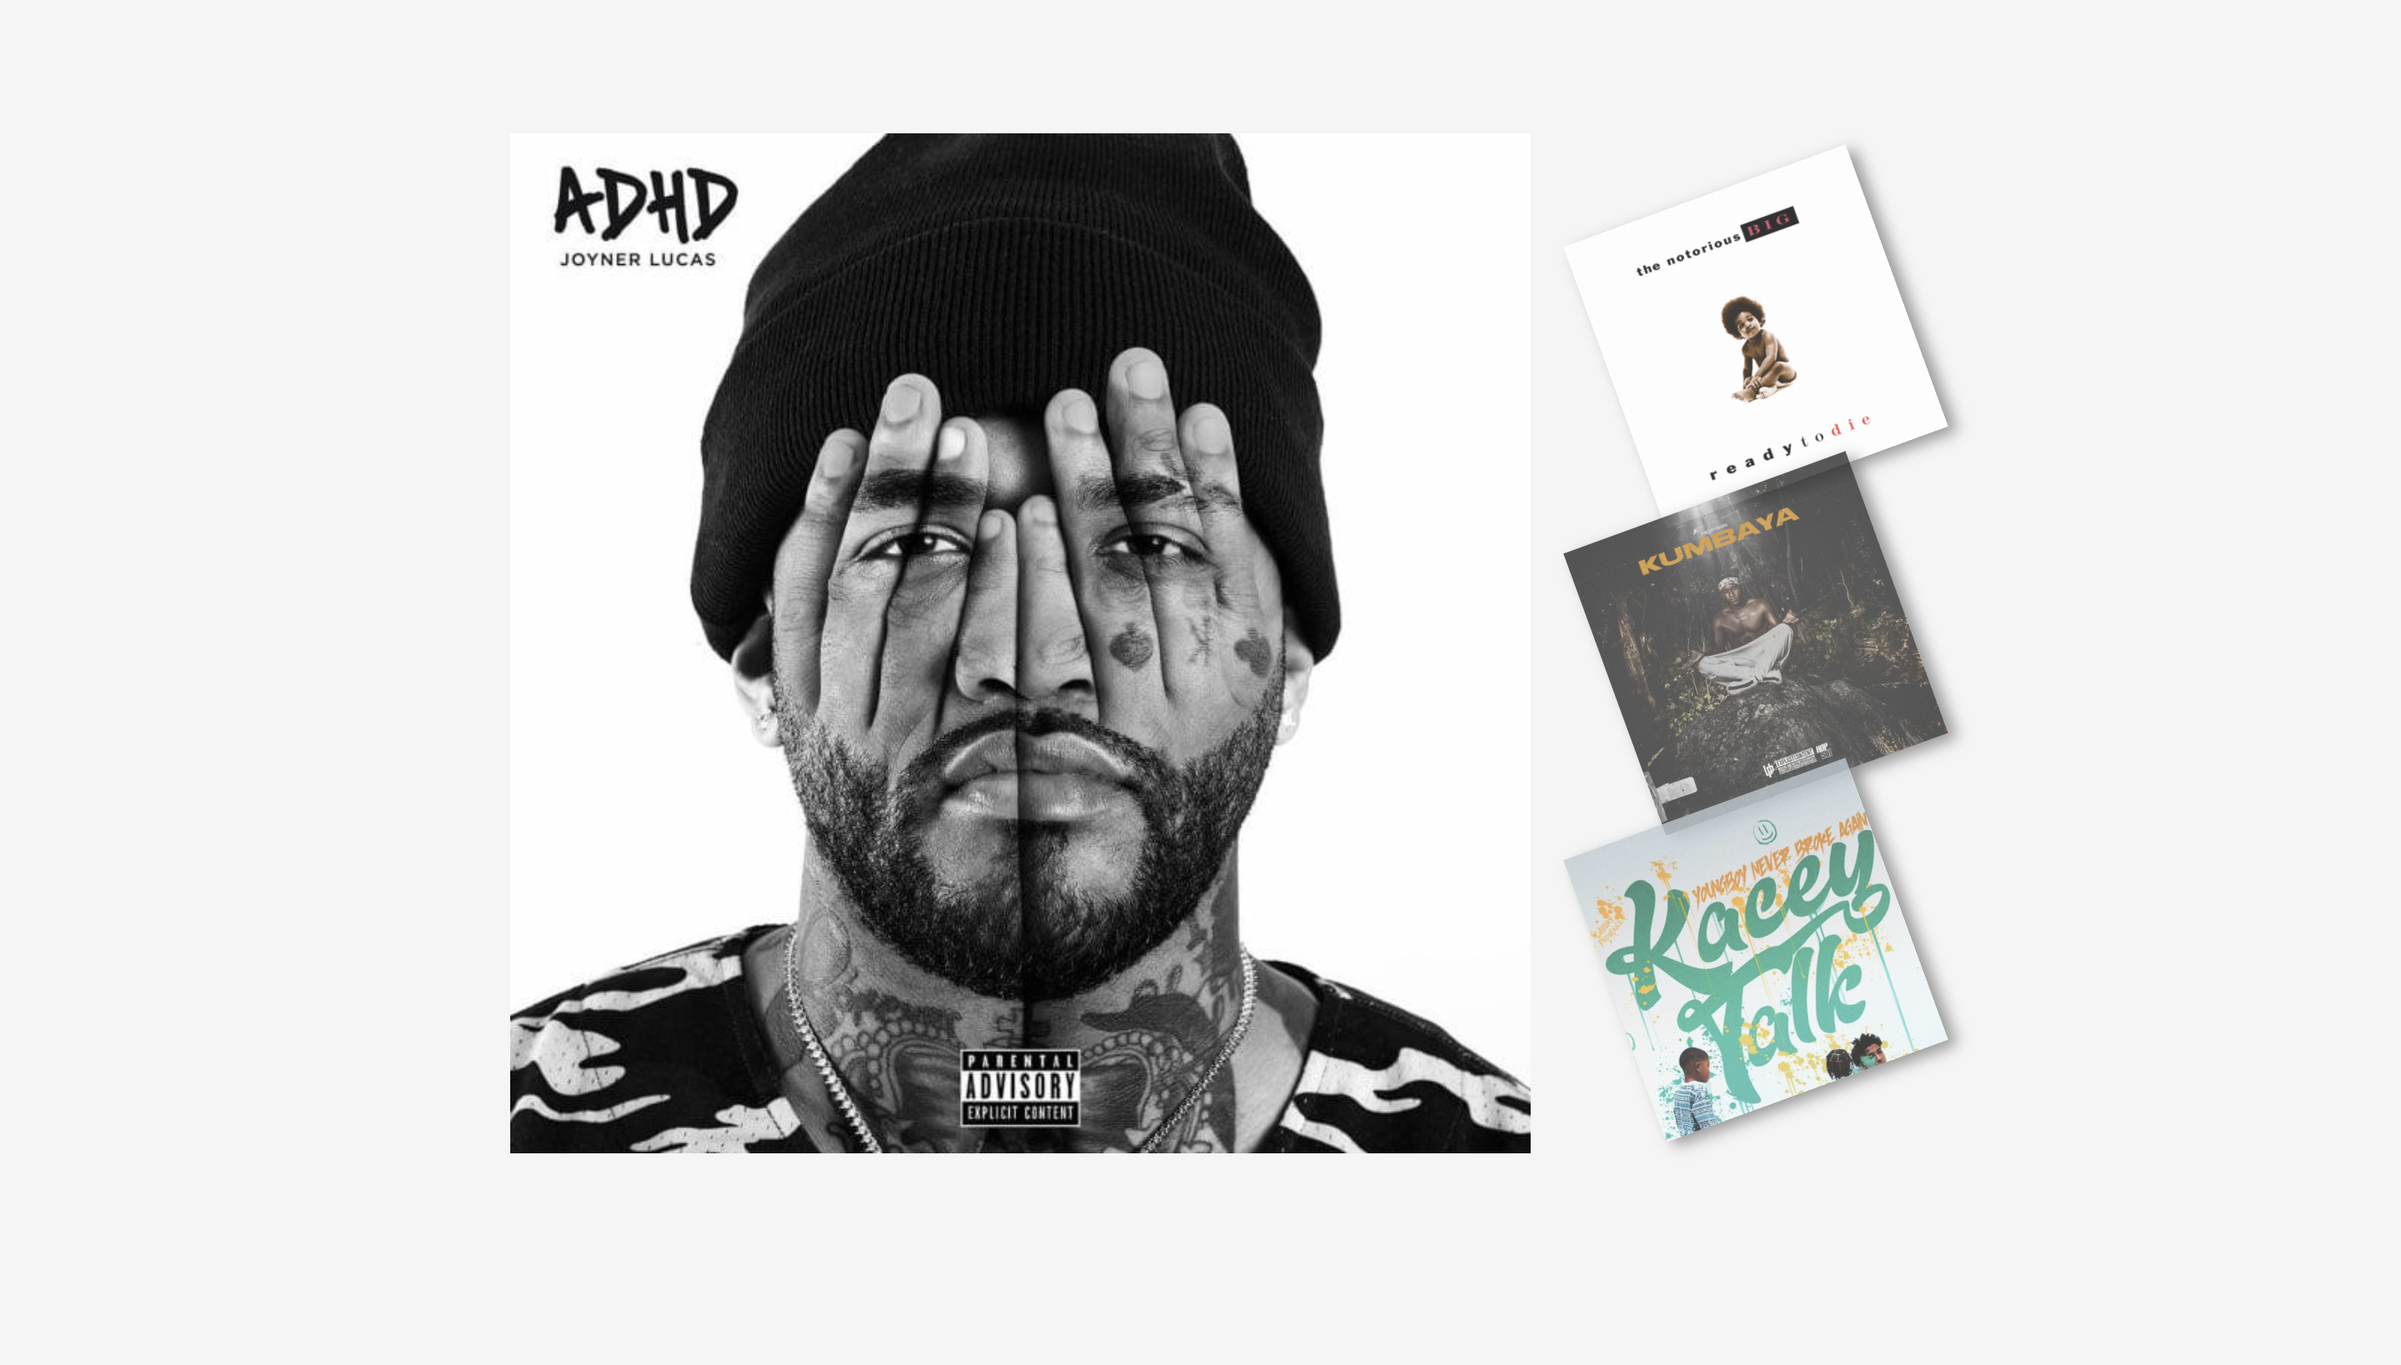
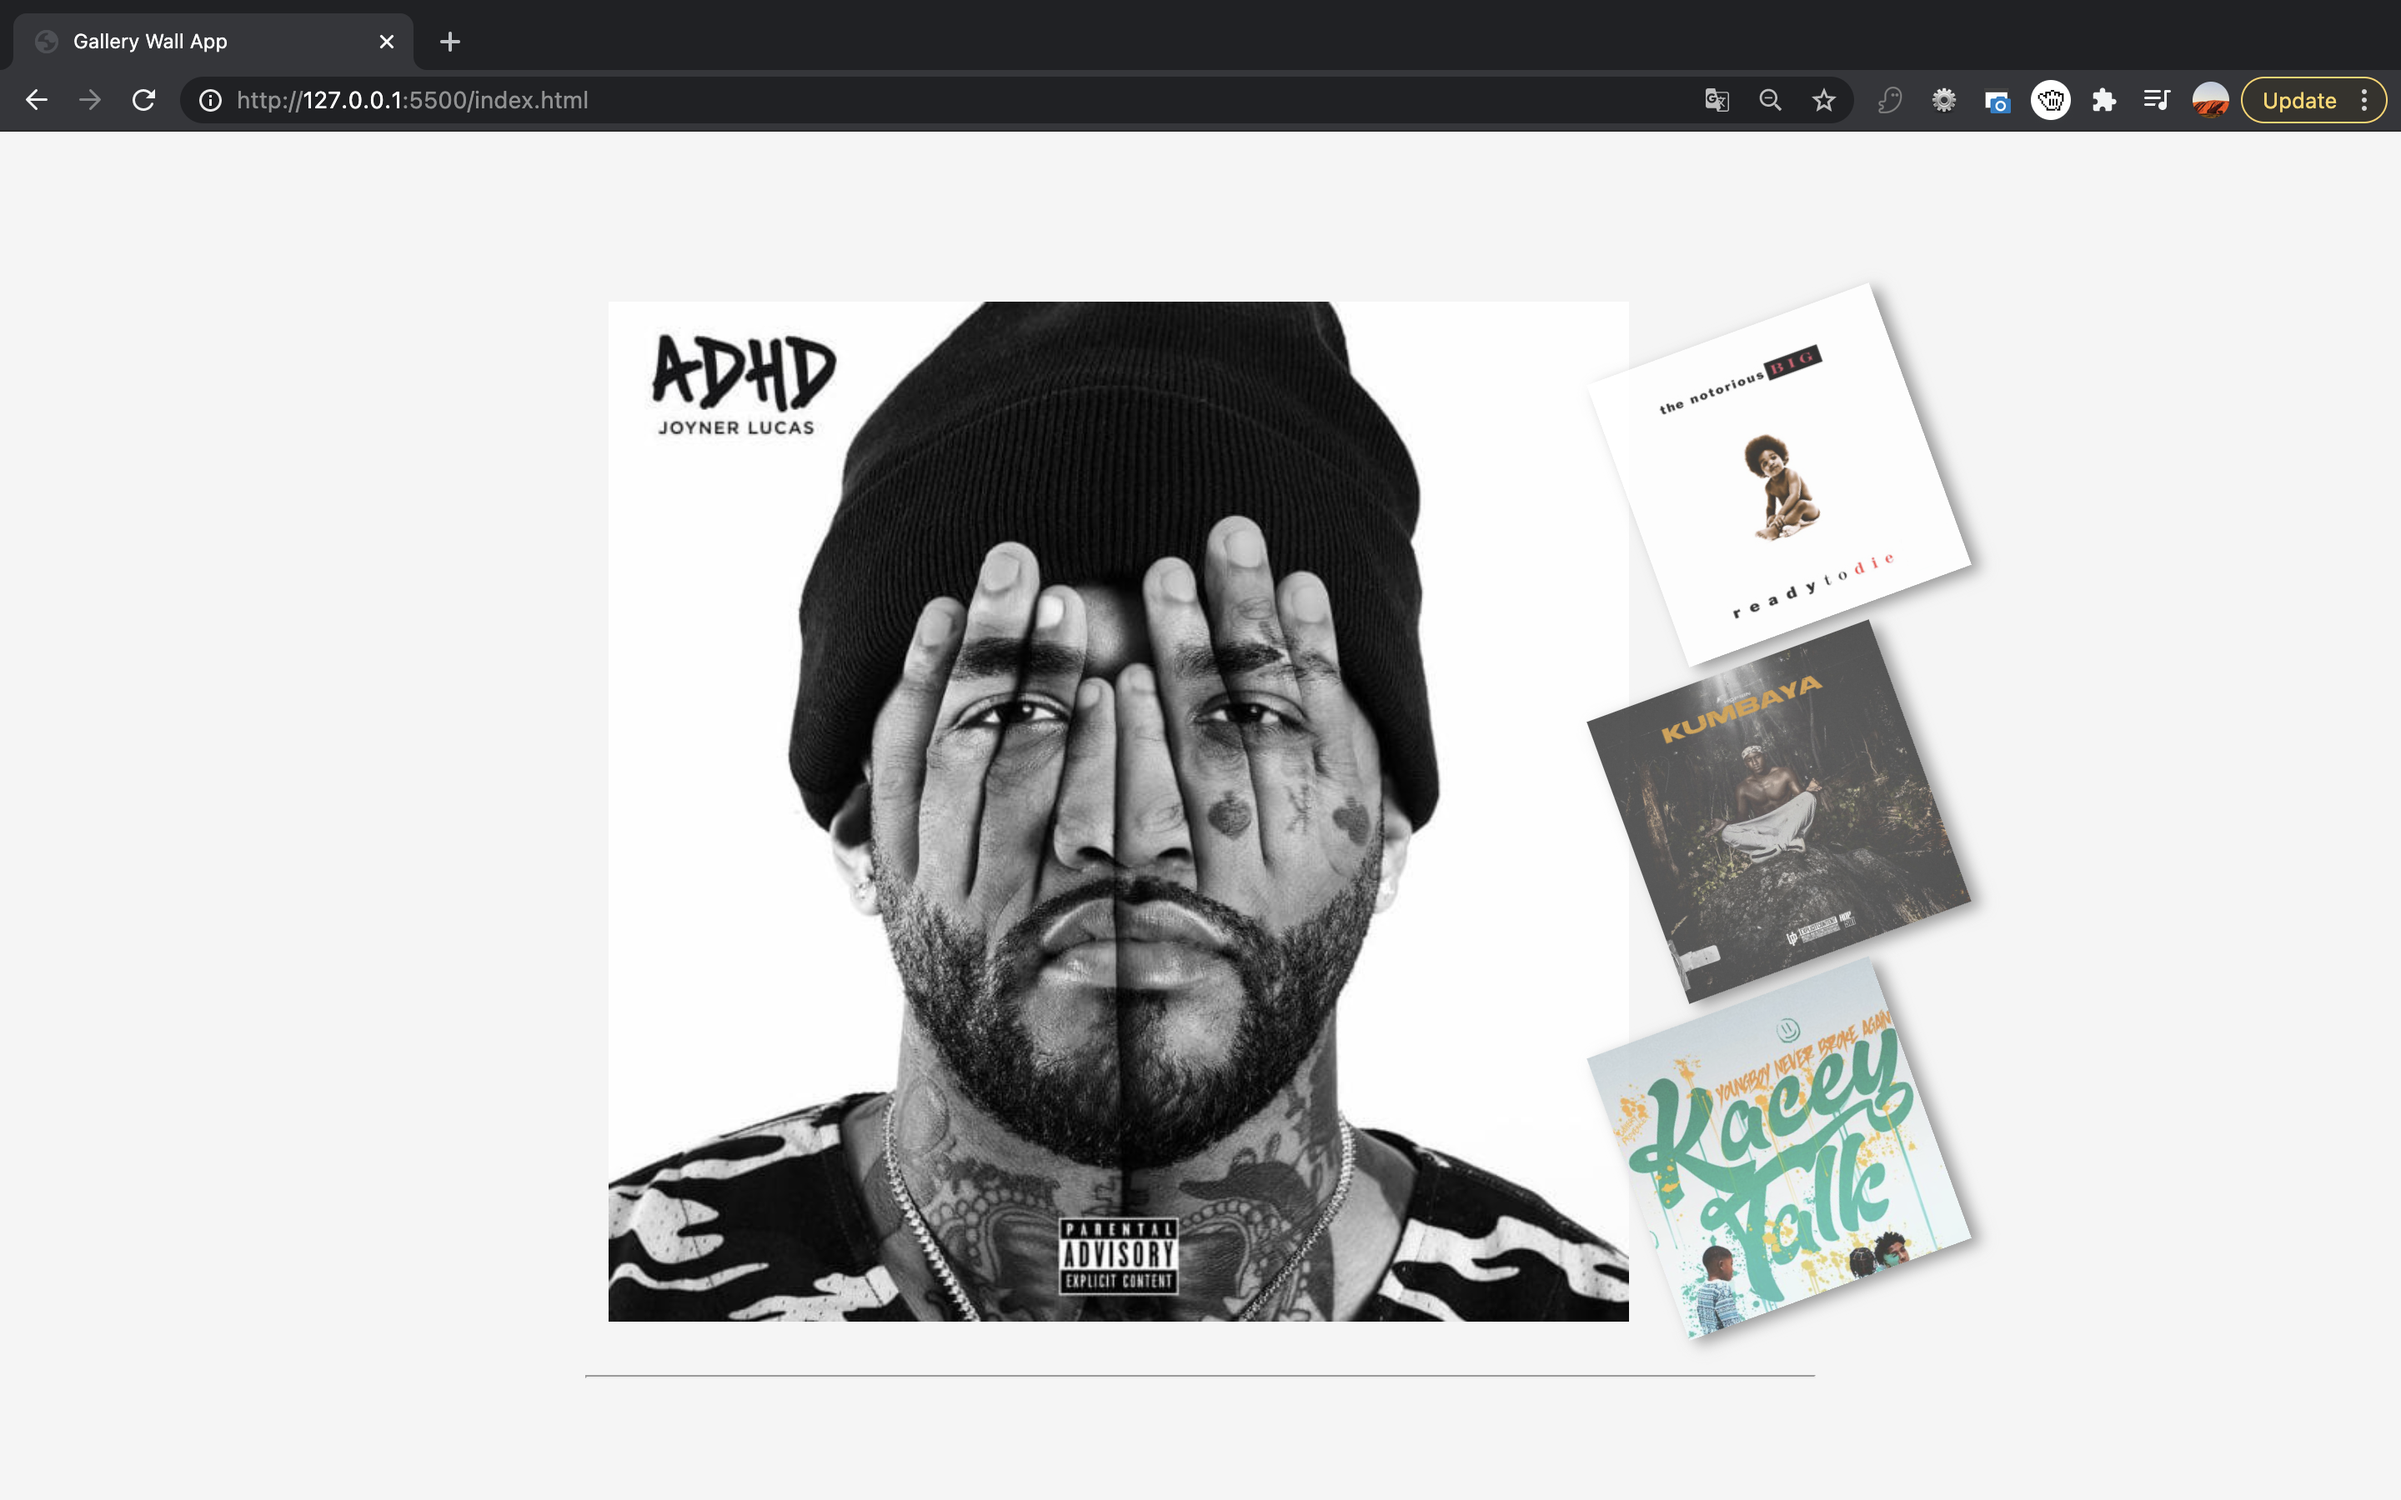
new screenshots

diff --git a/stylesheet.css b/stylesheet.css
@@ -1,25 +1,27 @@
 body {
   background-color: #f5f5f5e8;
-  margin: auto;
-  max-width: 80vh;
 }
 
 main {
-  margin: auto;
   font-family: Montserrat;
+  max-width: 90vh;
+  margin: auto;
+  margin-top: 10vh;
 }
 
 .artcovers {
-  width: 50vh;
   height: 80vh;
+  width: 70%;
   display: flex;
   margin: auto;
+  position: relative;
+  left: -13%;
 }
 
 .left {
   display: block;
   margin: auto;
-  position: static;
+  position: relative;
 }
 
 .right {
